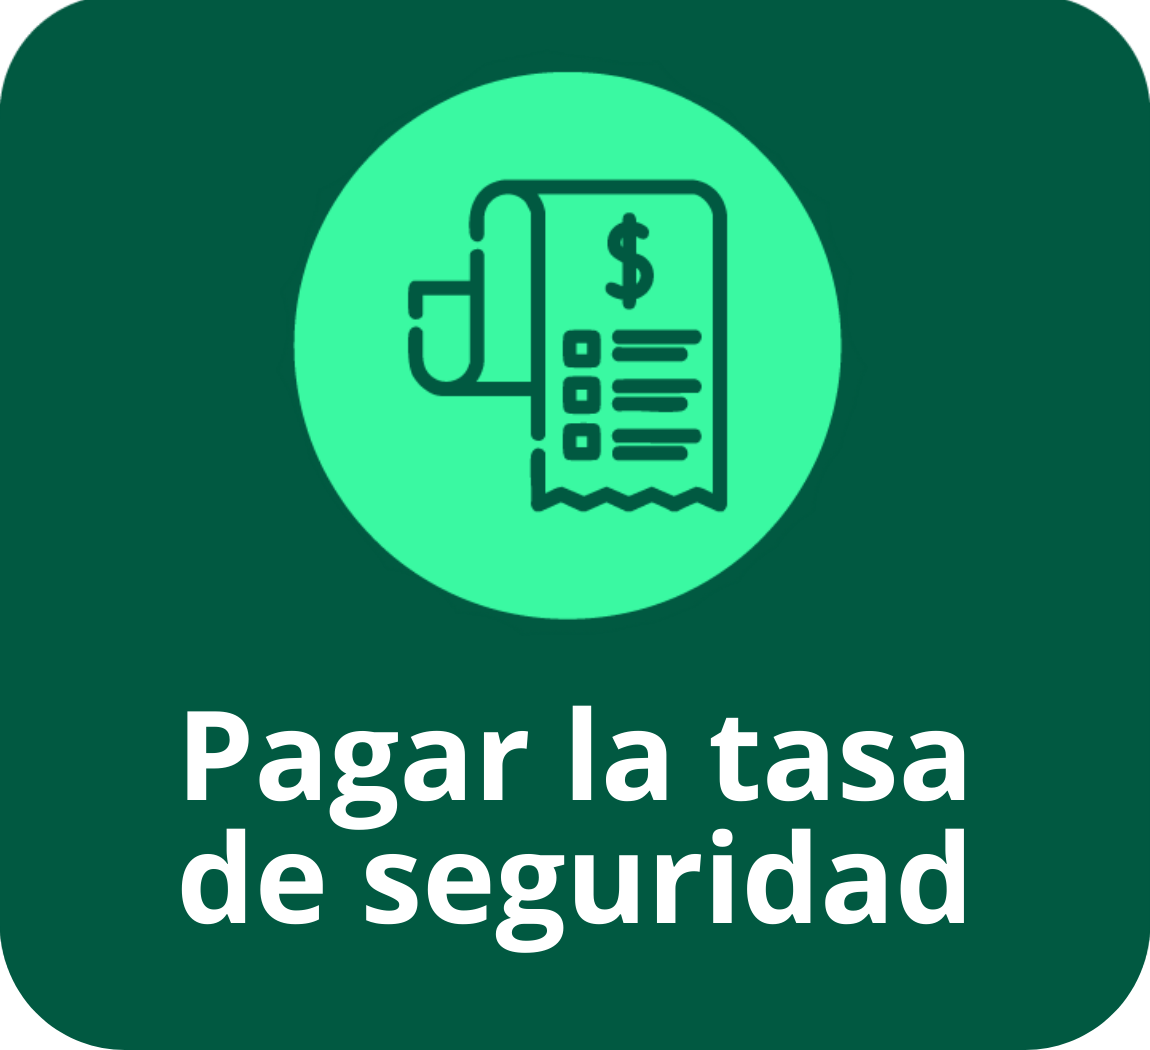
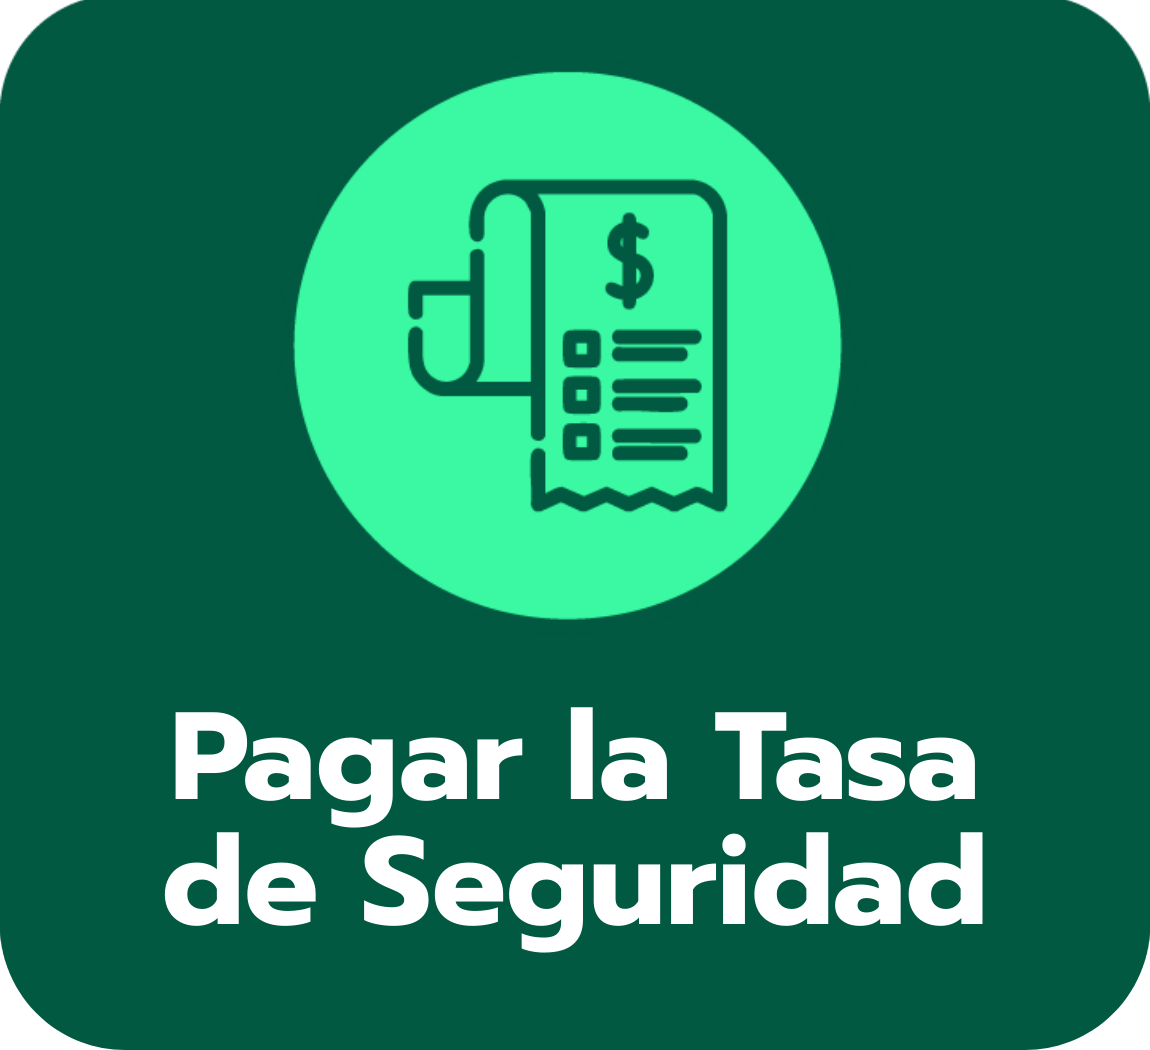
modificacion tipografia btn

Changed region(s): [[0.1217, 0.6705, 0.8522, 0.9143], [0.6087, 0.6705, 0.8522, 0.7619], [0.487, 0.6705, 0.5783, 0.7619]]

diff --git a/src/app/components/view-invoices/view-invoices.ts b/src/app/components/view-invoices/view-invoices.ts
@@ -212,10 +212,19 @@ loadInvoices() {
       return 'Activa';
     case 'PAYED':
       return 'Pagada';
-    case 'EXPIRED':
-      return 'Vencida';
+    case 'RECEIPT':
+      return 'Pagada en Liquidación';
     default:
       return status;
     }
   }
+  
+  getPeriodoFacturado(dateString: string): string {
+  const date = new Date(dateString);
+  const month = date.getMonth() + 1; // 1–12
+
+  if (month >= 1 && month <= 4) return 'Primer trimestre';
+  if (month >= 5 && month <= 8) return 'Segundo trimestre';
+  return 'Tercer trimestre';
+}
 }

diff --git a/src/app/components/shared/no-contracts-modal/no-contracts-modal.html b/src/app/components/shared/no-contracts-modal/no-contracts-modal.html
@@ -10,7 +10,7 @@
       <h2>Contratos no encontradas</h2>
       <p class="message">
         No se encontraron facturas relacionadas al usuario. Tal vez no tengas ninguna factura
-        inscrita hasta el momento, te invitamos a hacerlo. O ir a la opción <b>Ver facturas</b> si
+        inscrita hasta el momento, te invitamos a hacerlo. O ir a la opción <b>Descargar facturas</b> si
         quieres validar otras.
       </p>
 
